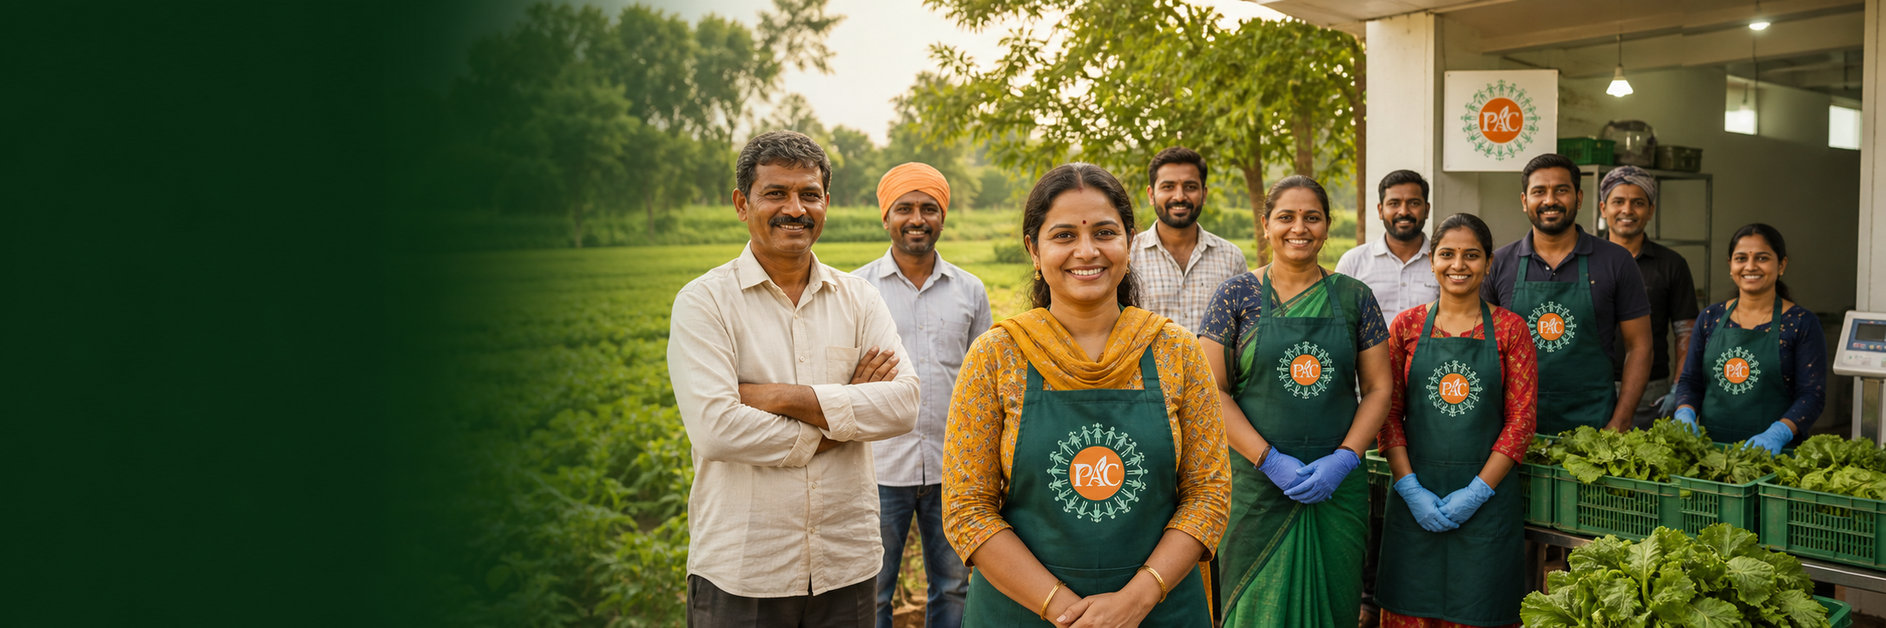
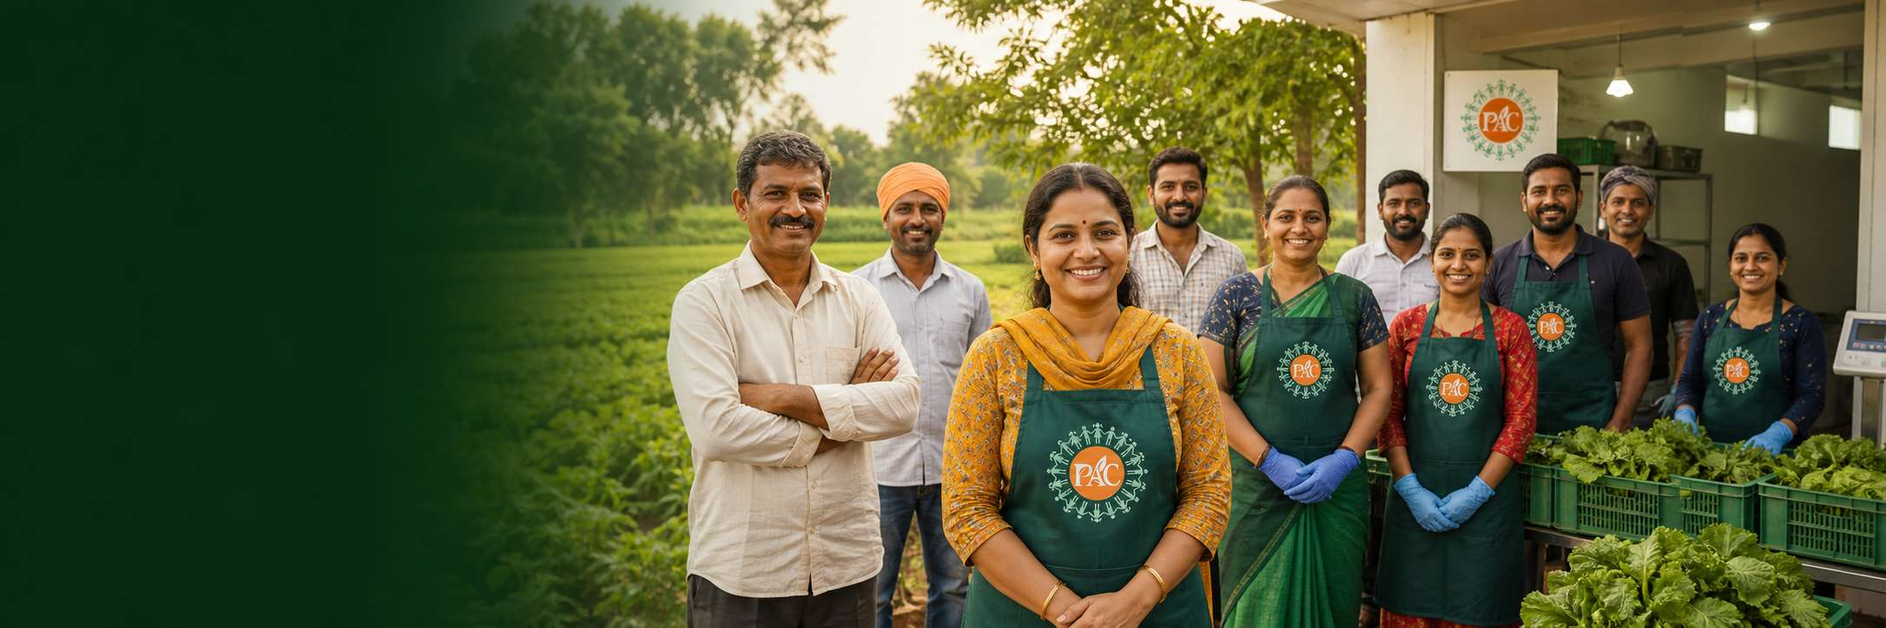
reduced png sizes contd

diff --git a/css/style.css b/css/style.css
@@ -6,7 +6,7 @@
 .section{padding:95px 0}.section-tag{color:var(--saffron);font-size:.72rem;font-weight:800;letter-spacing:.08em;margin:0 0 12px}.section-tag.light{color:#ffcb7d}.title-row{display:flex;justify-content:space-between;align-items:end;gap:60px;margin-bottom:45px}.title-row h2,.cooperative h2,.center-title h2,.contact h2,.about-lead h2,.mission h2,.history h2{font-family:var(--serif);font-size:clamp(2.1rem,4vw,3.4rem);line-height:1.2;font-weight:400;margin:0;color:var(--green)}.title-row>p{max-width:470px;color:var(--muted);margin:0}.produce{background:#faf9f5}.produce-grid{display:grid;grid-template-columns:repeat(3,1fr);gap:25px}.produce-grid article{background:white;border:1px solid #e3e3dd;box-shadow:0 5px 15px rgba(15,52,37,.05);transition:.25s}.produce-grid article:hover{transform:translateY(-5px);box-shadow:0 12px 25px rgba(15,52,37,.1)}.produce-visual{height:210px;display:flex;align-items:center;justify-content:center;flex-direction:column;color:white;position:relative;overflow:hidden}.produce-visual:before,.produce-visual:after{content:"";position:absolute;border-radius:50%;border:1px solid rgba(255,255,255,.25)}.produce-visual:before{width:170px;height:170px}.produce-visual:after{width:125px;height:125px}.produce-visual span,.produce-visual b{position:relative;z-index:1}.produce-visual span{font-size:.8rem}.produce-visual b{font-family:var(--serif);font-size:3.1rem;font-weight:400}.mustard{background:radial-gradient(circle at 70% 30%,#e5af2b,#a86510)}.wheat{background:radial-gradient(circle at 70% 30%,#d5b470,#856129)}.spices{background:radial-gradient(circle at 70% 30%,#d1643a,#7b261e)}.card-body{padding:26px 28px 30px}.status{font-size:.62rem;color:var(--red);background:#fbebe9;padding:5px 9px;font-weight:700}.card-body h3{font-family:var(--serif);font-size:1.65rem;color:var(--green);font-weight:400;margin:16px 0 6px}.card-body p{font-size:.83rem;color:var(--muted);min-height:72px}.card-body a{font-size:.77rem;color:var(--red);font-weight:800}.card-body a b{margin-left:8px}
 .cooperative{background:var(--green);color:white;padding:90px 0;position:relative;overflow:hidden}.cooperative:after{content:"प";position:absolute;right:-30px;bottom:-180px;font-family:var(--serif);font-size:500px;color:rgba(255,255,255,.025)}.cooperative-grid{display:grid;grid-template-columns:1fr 1fr;gap:100px;align-items:center;position:relative;z-index:1}.cooperative h2,.contact h2,.history h2{color:white}.cooperative p:not(.section-tag){color:#d6e0db;max-width:600px;margin:20px 0 30px}.stats{display:grid;grid-template-columns:1fr 1fr;border:1px solid rgba(255,255,255,.2)}.stats>div{padding:30px;border-right:1px solid rgba(255,255,255,.2);border-bottom:1px solid rgba(255,255,255,.2);display:flex;flex-direction:column}.stats>div:nth-child(even){border-right:0}.stats>div:nth-child(n+3){border-bottom:0}.stats strong{font-family:var(--serif);font-size:2.6rem;color:#ffbd61;font-weight:400}.stats span{font-size:.73rem;color:#dce5e0}.center-title{text-align:center;margin-bottom:55px}.center-title>p:last-child{color:var(--muted)}.process-line{display:grid;grid-template-columns:repeat(4,1fr);position:relative}.process-line:before{content:"";position:absolute;height:2px;left:12%;right:12%;top:53px;background:#e0d5bf}.process-line>div{text-align:center;position:relative;padding:0 28px}.process-line i{position:absolute;top:0;right:30%;width:25px;height:25px;background:var(--saffron);color:white;border-radius:50%;font-style:normal;font-size:.65rem;display:grid;place-items:center;z-index:2}.process-symbol{width:105px;height:105px;border-radius:50%;display:grid;place-items:center;background:var(--cream);border:7px solid white;box-shadow:0 0 0 1px #e0d5bf;margin:auto;font-size:2.5rem;color:var(--green);position:relative}.process-line h3{font-family:var(--serif);font-size:1.3rem;color:var(--green);font-weight:400;margin:20px 0 5px}.process-line p{font-size:.76rem;color:var(--muted);margin:0}.contact{padding:80px 0;background:linear-gradient(110deg,var(--green2),var(--green));color:white}.contact-grid{display:grid;grid-template-columns:1.3fr .7fr;gap:80px;align-items:center}.contact p:not(.section-tag){max-width:620px;color:#d1ddd7}.contact-card{background:white;color:var(--ink);padding:30px}.contact-card span{font-size:.68rem;color:var(--muted)}.contact-card a{display:block;color:var(--red);font-size:1.12rem;font-weight:800;margin:5px 0 18px}.contact-card hr{border:0;border-top:1px solid var(--line)}.contact-card small{color:var(--muted);font-size:.66rem}
 footer{background:#17251e;color:white}.footer-main{padding:55px 0;display:grid;grid-template-columns:1.2fr 1fr .6fr;gap:60px;align-items:start}.footer-brand .brand-seal{border-color:#d9c894;background:transparent;color:#fff}.footer-brand .brand-seal:after{border-color:#d9c894}.footer-brand strong{color:white}.footer-brand small{color:#b8c4bd}.footer-main>p{color:#aebbb4;font-size:.8rem;margin:0}.footer-main>div{display:flex;flex-direction:column;gap:7px;font-size:.76rem}.footer-main>div strong{color:#e5c87b;margin-bottom:5px}.footer-main>div a{color:#bdc8c2}.footer-bottom{border-top:1px solid rgba(255,255,255,.1);padding:16px 0;font-size:.63rem;color:#87978e}.footer-bottom .container{display:flex;justify-content:space-between}
-.page-banner{background:linear-gradient(90deg,rgba(9,46,32,.96),rgba(23,76,56,.8)),url('../media/kisan-sahkarita-hero.png') center 58%/cover;padding:72px 0;color:white}.page-banner p{font-size:.7rem;color:#d0dcd6;margin:0}.page-banner h1{font-family:var(--serif);font-size:3.5rem;font-weight:400;margin:15px 0 0}.page-banner span{color:#ffd18e}.about-grid{display:grid;grid-template-columns:.75fr 1.25fr;gap:100px;align-items:center}.about-mark{height:390px;background:#efe4c7;display:flex;flex-direction:column;align-items:center;justify-content:center;position:relative;border:1px solid #ddca9b}.about-mark:before,.about-mark:after{content:"";position:absolute;border:1px solid rgba(23,76,56,.18);border-radius:50%}.about-mark:before{width:250px;height:250px}.about-mark:after{width:310px;height:310px}.about-mark span,.about-mark strong,.about-mark b{position:relative;z-index:1}.about-mark span{font-size:.8rem;color:var(--saffron)}.about-mark strong{font-family:var(--serif);font-size:4.6rem;color:var(--green);font-weight:400;line-height:1.1}.about-mark b{font-size:.72rem;color:#76572d}.about-lead h2{margin-bottom:22px}.about-lead p:not(.section-tag){color:var(--muted)}.mission{background:#f2eee3;padding:80px 0}.mission-grid{display:grid;grid-template-columns:1fr 1fr;gap:1px;background:#d9d4c8}.mission article{background:#f2eee3;padding:45px}.mission article>span{font-size:.7rem;font-weight:800;color:var(--saffron)}.mission h2{font-size:2rem;margin:12px 0}.mission p{color:var(--muted);font-size:.84rem}.values-grid{display:grid;grid-template-columns:repeat(4,1fr);border-top:1px solid var(--line)}.values-grid article{position:relative;padding:35px 28px;border-right:1px solid var(--line)}.values-grid article:first-child{border-left:1px solid var(--line)}.values-grid b{position:absolute;right:20px;top:18px;color:#b9c1bc;font-family:var(--serif);font-weight:400}.values-grid>article>span{font-size:2rem;color:var(--saffron)}.values-grid h3{font-family:var(--serif);font-size:1.4rem;color:var(--green);font-weight:400}.values-grid p{font-size:.76rem;color:var(--muted)}.history{background:var(--green);color:white;padding:85px 0}.history-grid{display:grid;grid-template-columns:.8fr 1.2fr;gap:100px}.history ol{list-style:none;margin:0;padding:0;border-left:1px solid rgba(255,255,255,.25)}.history li{padding:0 0 32px 38px;position:relative}.history li:before{content:"";position:absolute;left:-7px;top:5px;width:12px;height:12px;border-radius:50%;background:var(--saffron);border:3px solid var(--green)}.history li span{font-size:.63rem;color:#ffc36d}.history li strong{display:block;font-family:var(--serif);font-size:1.3rem;font-weight:400}.history li p{color:#c7d4cd;font-size:.78rem;margin:5px 0 0}
+.page-banner{background:linear-gradient(90deg,rgba(9,46,32,.96),rgba(23,76,56,.8)),url('../media/pages/kisan-sahkarita-hero.png') center 58%/cover;padding:72px 0;color:white}  .page-banner p{font-size:.7rem;color:#d0dcd6;margin:0}  .page-banner h1{font-family:var(--serif);font-size:3.5rem;font-weight:400;margin:15px 0 0}  .page-banner span{color:#ffd18e}  .about-grid{display:grid;grid-template-columns:.75fr 1.25fr;gap:100px;align-items:center}  .about-mark{height:390px;background:#efe4c7;display:flex;flex-direction:column;align-items:center;justify-content:center;position:relative;border:1px solid #ddca9b}  .about-mark:before,.about-mark:after{content:"";position:absolute;border:1px solid rgba(23,76,56,.18);border-radius:50%}  .about-mark:before{width:250px;height:250px}  .about-mark:after{width:310px;height:310px}  .about-mark span,.about-mark strong,.about-mark b{position:relative;z-index:1}  .about-mark span{font-size:.8rem;color:var(--saffron)}  .about-mark strong{font-family:var(--serif);font-size:4.6rem;color:var(--green);font-weight:400;line-height:1.1}  .about-mark b{font-size:.72rem;color:#76572d}  .about-lead h2{margin-bottom:22px}  .about-lead p:not(.section-tag){color:var(--muted)}  .mission{background:#f2eee3;padding:80px 0}  .mission-grid{display:grid;grid-template-columns:1fr 1fr;gap:1px;background:#d9d4c8}  .mission article{background:#f2eee3;padding:45px}  .mission article>span{font-size:.7rem;font-weight:800;color:var(--saffron)}  .mission h2{font-size:2rem;margin:12px 0}  .mission p{color:var(--muted);font-size:.84rem}  .values-grid{display:grid;grid-template-columns:repeat(4,1fr);border-top:1px solid var(--line)}  .values-grid article{position:relative;padding:35px 28px;border-right:1px solid var(--line)}  .values-grid article:first-child{border-left:1px solid var(--line)}  .values-grid b{position:absolute;right:20px;top:18px;color:#b9c1bc;font-family:var(--serif);font-weight:400}  .values-grid>article>span{font-size:2rem;color:var(--saffron)}  .values-grid h3{font-family:var(--serif);font-size:1.4rem;color:var(--green);font-weight:400}  .values-grid p{font-size:.76rem;color:var(--muted)}  .history{background:var(--green);color:white;padding:85px 0}  .history-grid{display:grid;grid-template-columns:.8fr 1.2fr;gap:100px}  .history ol{list-style:none;margin:0;padding:0;border-left:1px solid rgba(255,255,255,.25)}  .history li{padding:0 0 32px 38px;position:relative}  .history li:before{content:"";position:absolute;left:-7px;top:5px;width:12px;height:12px;border-radius:50%;background:var(--saffron);border:3px solid var(--green)}  .history li span{font-size:.63rem;color:#ffc36d}  .history li strong{display:block;font-family:var(--serif);font-size:1.3rem;font-weight:400}  .history li p{color:#c7d4cd;font-size:.78rem;margin:5px 0 0}
 @media(max-width:900px){.identity-badge{display:none}.site-nav{display:none;position:absolute;top:100%;left:0;right:0;background:white;flex-direction:column;z-index:20;box-shadow:0 10px 20px rgba(0,0,0,.1)}.site-nav.open{display:flex}.site-nav a{padding:15px 20px;border-bottom:1px solid var(--line)}.nav-wrap{position:relative}.nav-toggle{display:block}.nav-enquiry{margin-left:auto}.hero{height:530px}.hero>img{object-position:62% center}.quick-grid{grid-template-columns:1fr 1fr}.produce-grid{grid-template-columns:1fr}.produce-grid article{display:grid;grid-template-columns:.7fr 1.3fr}.cooperative-grid,.contact-grid,.about-grid,.history-grid{grid-template-columns:1fr}.process-line{grid-template-columns:1fr 1fr;gap:45px}.process-line:before{display:none}.values-grid{grid-template-columns:1fr 1fr}.footer-main{grid-template-columns:1fr 1fr}.footer-main>p{grid-column:1/-1}}
 @media(max-width:600px){.container{width:min(100% - 28px,1200px)}.top-strip .container>span,.top-strip a{display:none}.top-strip .container{justify-content:flex-end}.identity-row{height:90px}.brand-seal{width:52px;height:52px}.brand strong{font-size:1.45rem}.search{display:none}.nav-wrap{height:52px}.hero{height:580px}.hero>img{object-position:68% center}.hero-shade{background:linear-gradient(90deg,rgba(8,31,22,.9),rgba(8,31,22,.47))}.hero-content{justify-content:flex-end;padding-bottom:70px}.hero h1{font-size:3.25rem}.hero-content>p:not(.hero-kicker){font-size:.9rem}.hero-actions{flex-direction:column;align-items:flex-start}.notice{height:44px}.notice strong{padding:0 10px}.quick-grid{grid-template-columns:1fr}.quick-grid>a{min-height:80px;border-bottom:1px solid var(--line)}.section{padding:65px 0}.title-row{flex-direction:column;align-items:flex-start;gap:20px}.produce-grid article{display:block}.cooperative-grid{gap:45px}.stats>div{padding:20px}.process-line{grid-template-columns:1fr}.contact-grid{gap:35px}.footer-main{grid-template-columns:1fr;gap:30px}.footer-main>p{grid-column:auto}.footer-bottom .container{flex-direction:column;gap:6px}.about-mark{height:310px}.mission-grid{grid-template-columns:1fr}.mission article{padding:30px}.values-grid{grid-template-columns:1fr}.values-grid article,.values-grid article:first-child{border-left:1px solid var(--line);border-bottom:1px solid var(--line)}.page-banner h1{font-size:2.8rem}}
 @media(prefers-reduced-motion:reduce){html{scroll-behavior:auto}.ticker p{animation:none}.produce-grid article{transition:none}}

diff --git a/pages/prout-philosophy.html b/pages/prout-philosophy.html
@@ -1,4 +1,4 @@
 <!doctype html>
-<html lang="en"><head><meta charset="utf-8"><meta name="viewport" content="width=device-width,initial-scale=1"><meta name="description" content="Explore the PROUT philosophy of progressive utilisation, economic democracy and balanced development."><meta name="robots" content="index,follow,max-image-preview:large"><meta name="theme-color" content="#174c38"><meta property="og:title" content="PROUT Philosophy | PROUT Agro Commodity"><meta property="og:description" content="A human-centred approach to progress, utilisation and balance."><meta property="og:image" content="../media/kisan-sahkarita-hero.png"><link rel="icon" href="../media/meta/favicon.ico"><link rel="apple-touch-icon" href="../media/meta/apple-touch-icon.png"><link rel="manifest" href="../media/meta/site.webmanifest"><title>PROUT Philosophy | PROUT Agro Commodity</title><link rel="stylesheet" href="../css/style.css"><script src="../js/main.js" defer></script></head>
+<html lang="en"><head><meta charset="utf-8"><meta name="viewport" content="width=device-width,initial-scale=1"><meta name="description" content="Explore the PROUT philosophy of progressive utilisation, economic democracy and balanced development."><meta name="robots" content="index,follow,max-image-preview:large"><meta name="theme-color" content="#174c38"><meta property="og:title" content="PROUT Philosophy | PROUT Agro Commodity"><meta property="og:description" content="A human-centred approach to progress, utilisation and balance."><meta property="og:image" content="../media/pages/kisan-sahkarita-hero.png"><link rel="icon" href="../media/meta/favicon.ico"><link rel="apple-touch-icon" href="../media/meta/apple-touch-icon.png"><link rel="manifest" href="../media/meta/site.webmanifest"><title>PROUT Philosophy | PROUT Agro Commodity</title><link rel="stylesheet" href="../css/style.css"><script src="../js/main.js" defer></script></head>
 <body><a class="skip-link" href="#mukhya">Skip to main content</a><div class="top-strip"><div class="container"><span>Micro, Small &amp; Medium Enterprise Initiative</span><div><a href="#mukhya">Skip to content</a><span class="language-switch" aria-label="Language selection"><button class="active" type="button" data-language="en">English</button><button type="button" data-language="hi">हिंदी</button></span><button type="button" data-size="minus" aria-label="Decrease text size">A−</button><button type="button" data-size="reset" aria-label="Reset text size">A</button><button type="button" data-size="plus" aria-label="Increase text size">A+</button></div></div></div><header class="site-header"><div class="container identity-row"><a class="brand" href="../index.html" aria-label="PROUT Agro Commodity home page"><span class="brand-seal" aria-hidden="true"></span><span><strong>PROUT Agro Commodity</strong></span></a></div><div class="nav-bar"><div class="container nav-wrap"><button class="nav-toggle" type="button" aria-expanded="false" aria-controls="site-nav"><span class="sr-only">Open menu</span><span></span><span></span><span></span></button><nav id="site-nav" class="site-nav" aria-label="Primary navigation"></nav></div></div></header>
 <main id="mukhya"><section class="page-banner"><div class="container"><p>About / PROUT Philosophy</p><h1>PROUT Philosophy</h1><span>A human-centred approach to progress, utilisation and balance</span></div></section><section class="section info-page"><div class="container info-intro"><div class="info-number">P</div><div class="info-copy"><p class="section-tag">What is PROUT Philosophy</p><h2>A human-centred approach to progress, utilisation and balance</h2><p>PROUT is a socio-economic philosophy that emphasises the rational use of available resources, local self-reliance and welfare for all.</p></div></div><div class="container principle-grid"><article><span>01</span><h3>Progressive Utilisation</h3><p>Maximum and balanced use of material, human and natural resources.</p></article><article><span>02</span><h3>Economic Democracy</h3><p>Active participation of local people in their local economy.</p></article><article><span>03</span><h3>Balanced Development</h3><p>Harmony between the needs of individuals, society and nature.</p></article></div></section></main><footer><div class="container footer-main"><a class="brand footer-brand" href="../index.html"><span class="brand-seal" aria-hidden="true"></span><span><strong>PROUT Agro Commodity</strong></span></a><p>Pure produce grown on our farmers’ own land.<br>Rooted in the earth, filled with trust.</p><div><strong>Important Links</strong><a href="pac-cooperative.html">PAC Cooperative</a><a href="prout-philosophy.html">PROUT Philosophy</a><a href="our-members.html">Our Members</a></div></div><div class="footer-bottom"><div class="container"><span>© <span data-year></span> PROUT Agro Commodity</span><span>Content owned and managed by PROUT Agro Commodity</span></div></div></footer></body></html>

diff --git a/pages/pac-cooperative.html b/pages/pac-cooperative.html
@@ -1,4 +1,4 @@
 <!doctype html>
-<html lang="en"><head><meta charset="utf-8"><meta name="viewport" content="width=device-width,initial-scale=1"><meta name="description" content="Learn how the PAC Cooperative brings producers together through shared resources, fair participation and local progress."><meta name="robots" content="index,follow,max-image-preview:large"><meta name="theme-color" content="#174c38"><meta property="og:title" content="PAC Cooperative | PROUT Agro Commodity"><meta property="og:description" content="Shared ownership, shared prosperity."><meta property="og:image" content="../media/kisan-sahkarita-hero.png"><link rel="icon" href="../media/meta/favicon.ico"><link rel="apple-touch-icon" href="../media/meta/apple-touch-icon.png"><link rel="manifest" href="../media/meta/site.webmanifest"><title>PAC Cooperative | PROUT Agro Commodity</title><link rel="stylesheet" href="../css/style.css"><script src="../js/main.js" defer></script></head>
+<html lang="en"><head><meta charset="utf-8"><meta name="viewport" content="width=device-width,initial-scale=1"><meta name="description" content="Learn how the PAC Cooperative brings producers together through shared resources, fair participation and local progress."><meta name="robots" content="index,follow,max-image-preview:large"><meta name="theme-color" content="#174c38"><meta property="og:title" content="PAC Cooperative | PROUT Agro Commodity"><meta property="og:description" content="Shared ownership, shared prosperity."><meta property="og:image" content="../media/pages/kisan-sahkarita-hero.png"><link rel="icon" href="../media/meta/favicon.ico"><link rel="apple-touch-icon" href="../media/meta/apple-touch-icon.png"><link rel="manifest" href="../media/meta/site.webmanifest"><title>PAC Cooperative | PROUT Agro Commodity</title><link rel="stylesheet" href="../css/style.css"><script src="../js/main.js" defer></script></head>
 <body><a class="skip-link" href="#mukhya">Skip to main content</a><div class="top-strip"><div class="container"><span>Micro, Small &amp; Medium Enterprise Initiative</span><div><a href="#mukhya">Skip to content</a><span class="language-switch" aria-label="Language selection"><button class="active" type="button" data-language="en">English</button><button type="button" data-language="hi">हिंदी</button></span><button type="button" data-size="minus" aria-label="Decrease text size">A−</button><button type="button" data-size="reset" aria-label="Reset text size">A</button><button type="button" data-size="plus" aria-label="Increase text size">A+</button></div></div></div><header class="site-header"><div class="container identity-row"><a class="brand" href="../index.html" aria-label="PROUT Agro Commodity home page"><span class="brand-seal" aria-hidden="true"></span><span><strong>PROUT Agro Commodity</strong></span></a></div><div class="nav-bar"><div class="container nav-wrap"><button class="nav-toggle" type="button" aria-expanded="false" aria-controls="site-nav"><span class="sr-only">Open menu</span><span></span><span></span><span></span></button><nav id="site-nav" class="site-nav" aria-label="Primary navigation"></nav></div></div></header>
 <main id="mukhya"><section class="page-banner"><div class="container"><p>About / PAC Cooperative</p><h1>PAC Cooperative</h1><span>Shared ownership, shared prosperity</span></div></section><section class="section info-page"><div class="container info-intro"><div class="info-number">PAC</div><div class="info-copy"><p class="section-tag">What is the PAC Cooperative</p><h2>Shared ownership, shared prosperity</h2><p>The PAC Cooperative gives farmers and producers a platform to share resources, responsibility and achievement.</p></div></div><div class="container principle-grid"><article><span>01</span><h3>Shared Resources</h3><p>Responsible use of knowledge, tools and opportunity.</p></article><article><span>02</span><h3>Fair Participation</h3><p>Respect for every member’s voice and contribution.</p></article><article><span>03</span><h3>Local Progress</h3><p>Strengthening economic value within the community.</p></article></div></section></main><footer><div class="container footer-main"><a class="brand footer-brand" href="../index.html"><span class="brand-seal" aria-hidden="true"></span><span><strong>PROUT Agro Commodity</strong></span></a><p>Pure produce grown on our farmers’ own land.<br>Rooted in the earth, filled with trust.</p><div><strong>Important Links</strong><a href="pac-cooperative.html">PAC Cooperative</a><a href="prout-philosophy.html">PROUT Philosophy</a><a href="our-members.html">Our Members</a></div></div><div class="footer-bottom"><div class="container"><span>© <span data-year></span> PROUT Agro Commodity</span><span>Content owned and managed by PROUT Agro Commodity</span></div></div></footer></body></html>

diff --git a/pages/our-members.html b/pages/our-members.html
@@ -1,4 +1,4 @@
 <!doctype html>
-<html lang="en"><head><meta charset="utf-8"><meta name="viewport" content="width=device-width,initial-scale=1"><meta name="description" content="Meet the producer, processing and community members who shape PROUT Agro Commodity."><meta name="robots" content="index,follow,max-image-preview:large"><meta name="theme-color" content="#174c38"><meta property="og:title" content="Our Members | PROUT Agro Commodity"><meta property="og:description" content="Our people, our strength."><meta property="og:image" content="../media/kisan-sahkarita-hero.png"><link rel="icon" href="../media/meta/favicon.ico"><link rel="apple-touch-icon" href="../media/meta/apple-touch-icon.png"><link rel="manifest" href="../media/meta/site.webmanifest"><title>Our Members | PROUT Agro Commodity</title><link rel="stylesheet" href="../css/style.css"><script src="../js/main.js" defer></script></head>
+<html lang="en"><head><meta charset="utf-8"><meta name="viewport" content="width=device-width,initial-scale=1"><meta name="description" content="Meet the producer, processing and community members who shape PROUT Agro Commodity."><meta name="robots" content="index,follow,max-image-preview:large"><meta name="theme-color" content="#174c38"><meta property="og:title" content="Our Members | PROUT Agro Commodity"><meta property="og:description" content="Our people, our strength."><meta property="og:image" content="../media/pages/kisan-sahkarita-hero.png"><link rel="icon" href="../media/meta/favicon.ico"><link rel="apple-touch-icon" href="../media/meta/apple-touch-icon.png"><link rel="manifest" href="../media/meta/site.webmanifest"><title>Our Members | PROUT Agro Commodity</title><link rel="stylesheet" href="../css/style.css"><script src="../js/main.js" defer></script></head>
 <body><a class="skip-link" href="#mukhya">Skip to main content</a><div class="top-strip"><div class="container"><span>Micro, Small &amp; Medium Enterprise Initiative</span><div><a href="#mukhya">Skip to content</a><span class="language-switch" aria-label="Language selection"><button class="active" type="button" data-language="en">English</button><button type="button" data-language="hi">हिंदी</button></span><button type="button" data-size="minus" aria-label="Decrease text size">A−</button><button type="button" data-size="reset" aria-label="Reset text size">A</button><button type="button" data-size="plus" aria-label="Increase text size">A+</button></div></div></div><header class="site-header"><div class="container identity-row"><a class="brand" href="../index.html" aria-label="PROUT Agro Commodity home page"><span class="brand-seal" aria-hidden="true"></span><span><strong>PROUT Agro Commodity</strong></span></a></div><div class="nav-bar"><div class="container nav-wrap"><button class="nav-toggle" type="button" aria-expanded="false" aria-controls="site-nav"><span class="sr-only">Open menu</span><span></span><span></span><span></span></button><nav id="site-nav" class="site-nav" aria-label="Primary navigation"></nav></div></div></header>
 <main id="mukhya"><section class="page-banner"><div class="container"><p>About / Our Members</p><h1>Our Members</h1><span>Our people, our strength</span></div></section><section class="section info-page"><div class="container info-intro"><div class="info-number">PAC</div><div class="info-copy"><p class="section-tag">Our Members</p><h2>Our people, our strength</h2><p>PROUT Agro Commodity is shaped by the shared experience, work and commitment of its members.</p><div class="member-note">Member profiles will be added soon.</div></div></div><div class="container principle-grid"><article><span>01</span><h3>Producer Members</h3><p>Members involved in cultivation, crop management and primary preparation.</p></article><article><span>02</span><h3>Processing Members</h3><p>Members contributing to cleaning, sorting, pressing and quality oversight.</p></article><article><span>03</span><h3>Community Partners</h3><p>Partners supporting supply, local connections and cooperative development.</p></article></div></section></main><footer><div class="container footer-main"><a class="brand footer-brand" href="../index.html"><span class="brand-seal" aria-hidden="true"></span><span><strong>PROUT Agro Commodity</strong></span></a><p>Pure produce grown on our farmers’ own land.<br>Rooted in the earth, filled with trust.</p><div><strong>Important Links</strong><a href="pac-cooperative.html">PAC Cooperative</a><a href="prout-philosophy.html">PROUT Philosophy</a><a href="our-members.html">Our Members</a></div></div><div class="footer-bottom"><div class="container"><span>© <span data-year></span> PROUT Agro Commodity</span><span>Content owned and managed by PROUT Agro Commodity</span></div></div></footer></body></html>

diff --git a/pages/about.html b/pages/about.html
@@ -1,7 +1,7 @@
 <!doctype html>
 <html lang="en">
 <head>
-  <meta charset="utf-8"><meta name="viewport" content="width=device-width, initial-scale=1"><meta name="description" content="Learn about PROUT Agro Commodity, an MSME agricultural enterprise built around shared resources, responsible cultivation and honest farm produce."><meta name="keywords" content="about PROUT Agro Commodity, Indian MSME, agricultural commodities, responsible farming"><meta name="author" content="PROUT Agro Commodity"><meta name="robots" content="index, follow, max-image-preview:large"><meta name="theme-color" content="#174c38"><meta property="og:type" content="website"><meta property="og:site_name" content="PROUT Agro Commodity"><meta property="og:title" content="About PROUT Agro Commodity"><meta property="og:description" content="Meet the people and purpose behind our oils, wheat and spices."><meta property="og:image" content="../media/kisan-sahkarita-hero.png"><meta property="og:image:alt" content="PROUT Agro Commodity farmers in their fields"><meta property="og:locale" content="en_IN"><meta property="og:locale:alternate" content="hi_IN"><meta name="twitter:card" content="summary_large_image"><meta name="twitter:title" content="About PROUT Agro Commodity"><meta name="twitter:description" content="A shared purpose, responsible cultivation and honest farm produce."><meta name="twitter:image" content="../media/kisan-sahkarita-hero.png"><link rel="icon" type="image/png" href="../media/meta/favicon-96x96.png" sizes="96x96"><link rel="icon" type="image/svg+xml" href="../media/meta/favicon.svg"><link rel="shortcut icon" href="../media/meta/favicon.ico"><link rel="apple-touch-icon" sizes="180x180" href="../media/meta/apple-touch-icon.png"><link rel="manifest" href="../media/meta/site.webmanifest"><title>About | PROUT Agro Commodity</title><link rel="stylesheet" href="../css/style.css"><script src="../js/main.js" defer></script><script type="application/ld+json">{"@context":"https://schema.org","@type":"AboutPage","name":"About PROUT Agro Commodity","description":"The story, purpose and values of PROUT Agro Commodity.","about":{"@type":"Organization","name":"PROUT Agro Commodity","logo":"../media/logo.png"}}</script>
+  <meta charset="utf-8"><meta name="viewport" content="width=device-width, initial-scale=1"><meta name="description" content="Learn about PROUT Agro Commodity, an MSME agricultural enterprise built around shared resources, responsible cultivation and honest farm produce."><meta name="keywords" content="about PROUT Agro Commodity, Indian MSME, agricultural commodities, responsible farming"><meta name="author" content="PROUT Agro Commodity"><meta name="robots" content="index, follow, max-image-preview:large"><meta name="theme-color" content="#174c38"><meta property="og:type" content="website"><meta property="og:site_name" content="PROUT Agro Commodity"><meta property="og:title" content="About PROUT Agro Commodity"><meta property="og:description" content="Meet the people and purpose behind our oils, wheat and spices."><meta property="og:image" content="../media/pages/kisan-sahkarita-hero.png"><meta property="og:image:alt" content="PROUT Agro Commodity farmers in their fields"><meta property="og:locale" content="en_IN"><meta property="og:locale:alternate" content="hi_IN"><meta name="twitter:card" content="summary_large_image"><meta name="twitter:title" content="About PROUT Agro Commodity"><meta name="twitter:description" content="A shared purpose, responsible cultivation and honest farm produce."><meta name="twitter:image" content="../media/pages/kisan-sahkarita-hero.png"><link rel="icon" type="image/png" href="../media/meta/favicon-96x96.png" sizes="96x96"><link rel="icon" type="image/svg+xml" href="../media/meta/favicon.svg"><link rel="shortcut icon" href="../media/meta/favicon.ico"><link rel="apple-touch-icon" sizes="180x180" href="../media/meta/apple-touch-icon.png"><link rel="manifest" href="../media/meta/site.webmanifest"><title>About | PROUT Agro Commodity</title><link rel="stylesheet" href="../css/style.css"><script src="../js/main.js" defer></script><script type="application/ld+json">{"@context":"https://schema.org","@type":"AboutPage","name":"About PROUT Agro Commodity","description":"The story, purpose and values of PROUT Agro Commodity.","about":{"@type":"Organization","name":"PROUT Agro Commodity","logo":"../media/logo.png"}}</script>
 </head>
 <body>
   <a class="skip-link" href="#mukhya">मुख्य सामग्री पर जाएँ</a>

diff --git a/index.html b/index.html
@@ -6,8 +6,8 @@
   <meta name="description" content="PROUT Agro Commodity offers farm-grown mustard oil, whole wheat and spices, produced and prepared by our member farmers.">
   <meta name="keywords" content="PROUT Agro Commodity, farmers cooperative, mustard oil, whole wheat, farm spices, Indian agriculture, MSME cooperative">
   <meta name="author" content="PROUT Agro Commodity"><meta name="robots" content="index, follow, max-image-preview:large">
-  <meta property="og:type" content="website"><meta property="og:site_name" content="PROUT Agro Commodity"><meta property="og:title" content="PROUT Agro Commodity"><meta property="og:description" content="Pure farm-grown essentials, produced together and shared with care."><meta property="og:image" content="media/kisan-sahkarita-hero.png"><meta property="og:image:alt" content="PROUT Agro Commodity farmers standing in their fields"><meta property="og:locale" content="en_IN"><meta property="og:locale:alternate" content="hi_IN">
-  <meta name="twitter:card" content="summary_large_image"><meta name="twitter:title" content="PROUT Agro Commodity"><meta name="twitter:description" content="Mustard oil, whole wheat and spices grown by our member farmers."><meta name="twitter:image" content="media/kisan-sahkarita-hero.png">
+  <meta property="og:type" content="website"><meta property="og:site_name" content="PROUT Agro Commodity"><meta property="og:title" content="PROUT Agro Commodity"><meta property="og:description" content="Pure farm-grown essentials, produced together and shared with care."><meta property="og:image" content="media/pages/kisan-sahkarita-hero.png"><meta property="og:image:alt" content="PROUT Agro Commodity farmers standing in their fields"><meta property="og:locale" content="en_IN"><meta property="og:locale:alternate" content="hi_IN">
+  <meta name="twitter:card" content="summary_large_image"><meta name="twitter:title" content="PROUT Agro Commodity"><meta name="twitter:description" content="Mustard oil, whole wheat and spices grown by our member farmers."><meta name="twitter:image" content="media/pages/kisan-sahkarita-hero.png">
   <meta name="theme-color" content="#174c38">
   <link rel="icon" type="image/png" href="media/meta/favicon-96x96.png" sizes="96x96">
   <link rel="icon" type="image/svg+xml" href="media/meta/favicon.svg">
